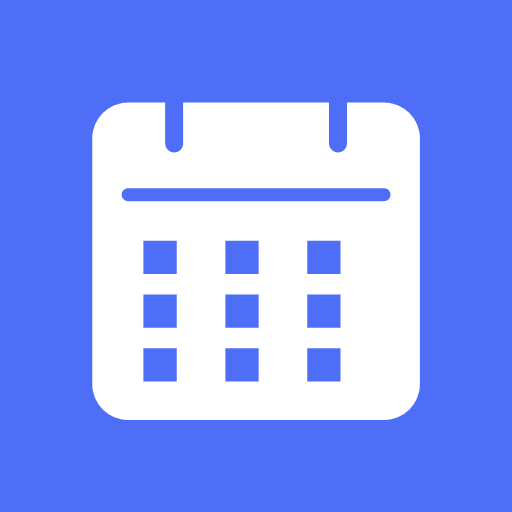
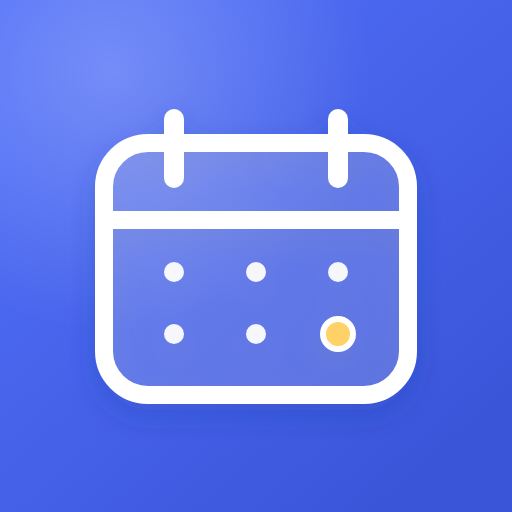
고품질 앱 아이콘 및 스플래시 개선

diff --git a/sw.js b/sw.js
@@ -1,10 +1,14 @@
-const CACHE_NAME = 'plan-calendar-v4';
+const CACHE_NAME = 'plan-calendar-v5';
 const APP_SHELL = [
   './',
   './index.html',
   './manifest.webmanifest',
+  './icon.svg',
+  './icon-maskable.svg',
   './icon-192.png',
-  './icon-512.png'
+  './icon-512.png',
+  './icon-maskable-192.png',
+  './icon-maskable-512.png'
 ];
 
 self.addEventListener('install', event => {

diff --git a/index.html b/index.html
@@ -4,6 +4,7 @@
 <meta charset="UTF-8">
 <meta name="viewport" content="width=device-width, initial-scale=1, viewport-fit=cover">
 <link rel="manifest" href="./manifest.webmanifest">
+<link rel="apple-touch-icon" href="./icon-192.png">
 <meta name="theme-color" content="#4f6ef7">
 <meta name="robots" content="noindex, nofollow">
 <script>